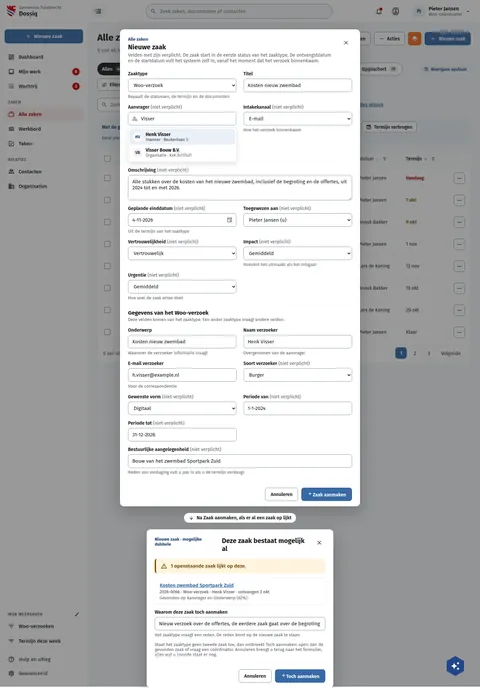
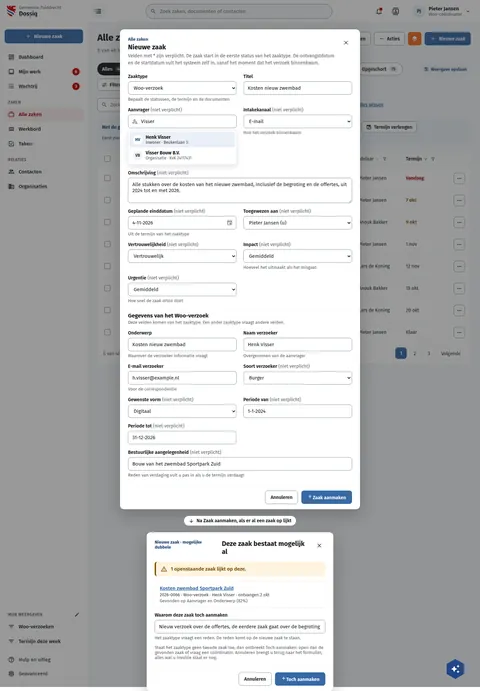
fix(screens): DqNieuweZaak's dialog subtitle at line height 1.5, with its asterisk
The New case dialog drew its subtitle at the normal line height, where
DqBerichtVersturen and DqOverdragen draw the same dialog subtitle at 1.5;
two boards of three set the canon (coordinator, 23 Oct). The asterisk in
"Velden met * zijn verplicht" had dropped out of the source, so the
sentence read "Velden met  zijn verplicht"; the English catalogue key
follows. screens.json is left as it was.

Assisted-by: ClaudeCode:claude-opus-5-5

diff --git a/preview/screens/boards/DqNieuweZaak.html b/preview/screens/boards/DqNieuweZaak.html
@@ -307,7 +307,7 @@ a{color:var(--sc-primary, #3669a5)}a:hover{color:var(--sc-primary-deep, #234a78)
   <div style="position: absolute; inset: 0; background: rgba(27,28,29,0.45); display: flex; flex-direction: column; align-items: center; gap: 20px; padding: 88px 16px 24px; box-sizing: border-box">
     <div role="dialog" aria-modal="true" aria-labelledby="nz-titel-dlg" style="width: 100%; max-width: 720px; background: #ffffff; border-radius: 12px; box-shadow: 0 16px 48px rgba(27,28,29,0.28); display: flex; flex-direction: column">
       <div style="display: flex; justify-content: space-between; align-items: flex-start; gap: 16px; padding: 22px 24px 4px">
-        <div style="display: flex; flex-direction: column; gap: 4px"><span style="font-size: 13px; font-weight: 700; color: var(--sc-primary-deep, #234a78)">Alle zaken</span><h2 id="nz-titel-dlg" style="margin: 0; font-size: 20px; font-weight: 700">Nieuwe zaak</h2><span style="font-size: 14px; color: var(--sc-work-muted, #5e6168)">Velden met  zijn verplicht. De zaak start in de eerste status van het zaaktype. De ontvangstdatum en de startdatum vult het systeem zelf in, vanaf het moment dat het verzoek binnenkwam.</span></div>
+        <div style="display: flex; flex-direction: column; gap: 4px"><span style="font-size: 13px; font-weight: 700; color: var(--sc-primary-deep, #234a78)">Alle zaken</span><h2 id="nz-titel-dlg" style="margin: 0; font-size: 20px; font-weight: 700">Nieuwe zaak</h2><span style="font-size: 14px; color: var(--sc-work-muted, #5e6168); line-height: 1.5">Velden met * zijn verplicht. De zaak start in de eerste status van het zaaktype. De ontvangstdatum en de startdatum vult het systeem zelf in, vanaf het moment dat het verzoek binnenkwam.</span></div>
         <button type="button" aria-label="Sluiten" style="flex: none; width: 36px; height: 36px; display: inline-flex; align-items: center; justify-content: center; border: 0; border-radius: 18px; background: transparent; color: var(--sc-work-text, #3d4047)"><svg width="20" height="20" viewbox="0 0 24 24" fill="currentColor"><path d="M19,6.41L17.59,5L12,10.59L6.41,5L5,6.41L10.59,12L5,17.59L6.41,19L12,13.41L17.59,19L19,17.59L13.41,12L19,6.41Z"></path></svg></button>
       </div>
       <form style="display: grid; grid-template-columns: repeat(auto-fit, minmax(260px, 1fr)); gap: 16px 20px; padding: 18px 24px 22px; align-items: start">

diff --git a/screens-src/zuiddrecht/DqNieuweZaak.dc.html b/screens-src/zuiddrecht/DqNieuweZaak.dc.html
@@ -103,7 +103,7 @@ a{color:#3669a5}a:hover{color:#234a78}
   <div style="position: absolute; inset: 0; background: rgba(27,28,29,0.45); display: flex; flex-direction: column; align-items: center; gap: 20px; padding: 88px 16px 24px; box-sizing: border-box">
     <div role="dialog" aria-modal="true" aria-labelledby="nz-titel-dlg" style="width: 100%; max-width: 720px; background: #ffffff; border-radius: 12px; box-shadow: 0 16px 48px rgba(27,28,29,0.28); display: flex; flex-direction: column">
       <div style="display: flex; justify-content: space-between; align-items: flex-start; gap: 16px; padding: 22px 24px 4px">
-        <div style="display: flex; flex-direction: column; gap: 4px"><span style="font-size: 13px; font-weight: 700; color: #234a78">Alle zaken</span><h2 id="nz-titel-dlg" style="margin: 0; font-size: 20px; font-weight: 700">Nieuwe zaak</h2><span style="font-size: 14px; color: #5e6168">Velden met  zijn verplicht. De zaak start in de eerste status van het zaaktype. De ontvangstdatum en de startdatum vult het systeem zelf in, vanaf het moment dat het verzoek binnenkwam.</span></div>
+        <div style="display: flex; flex-direction: column; gap: 4px"><span style="font-size: 13px; font-weight: 700; color: #234a78">Alle zaken</span><h2 id="nz-titel-dlg" style="margin: 0; font-size: 20px; font-weight: 700">Nieuwe zaak</h2><span style="font-size: 14px; color: #5e6168; line-height: 1.5">Velden met * zijn verplicht. De zaak start in de eerste status van het zaaktype. De ontvangstdatum en de startdatum vult het systeem zelf in, vanaf het moment dat het verzoek binnenkwam.</span></div>
         <button type="button" aria-label="Sluiten" style="flex: none; width: 36px; height: 36px; display: inline-flex; align-items: center; justify-content: center; border: 0; border-radius: 18px; background: transparent; color: #3d4047"><svg width="20" height="20" viewBox="0 0 24 24" fill="currentColor"><path d="M19,6.41L17.59,5L12,10.59L6.41,5L5,6.41L10.59,12L5,17.59L6.41,19L12,13.41L17.59,19L19,17.59L13.41,12L19,6.41Z"></path></svg></button>
       </div>
       <form style="display: grid; grid-template-columns: repeat(auto-fit, minmax(260px, 1fr)); gap: 16px 20px; padding: 18px 24px 22px; align-items: start">
